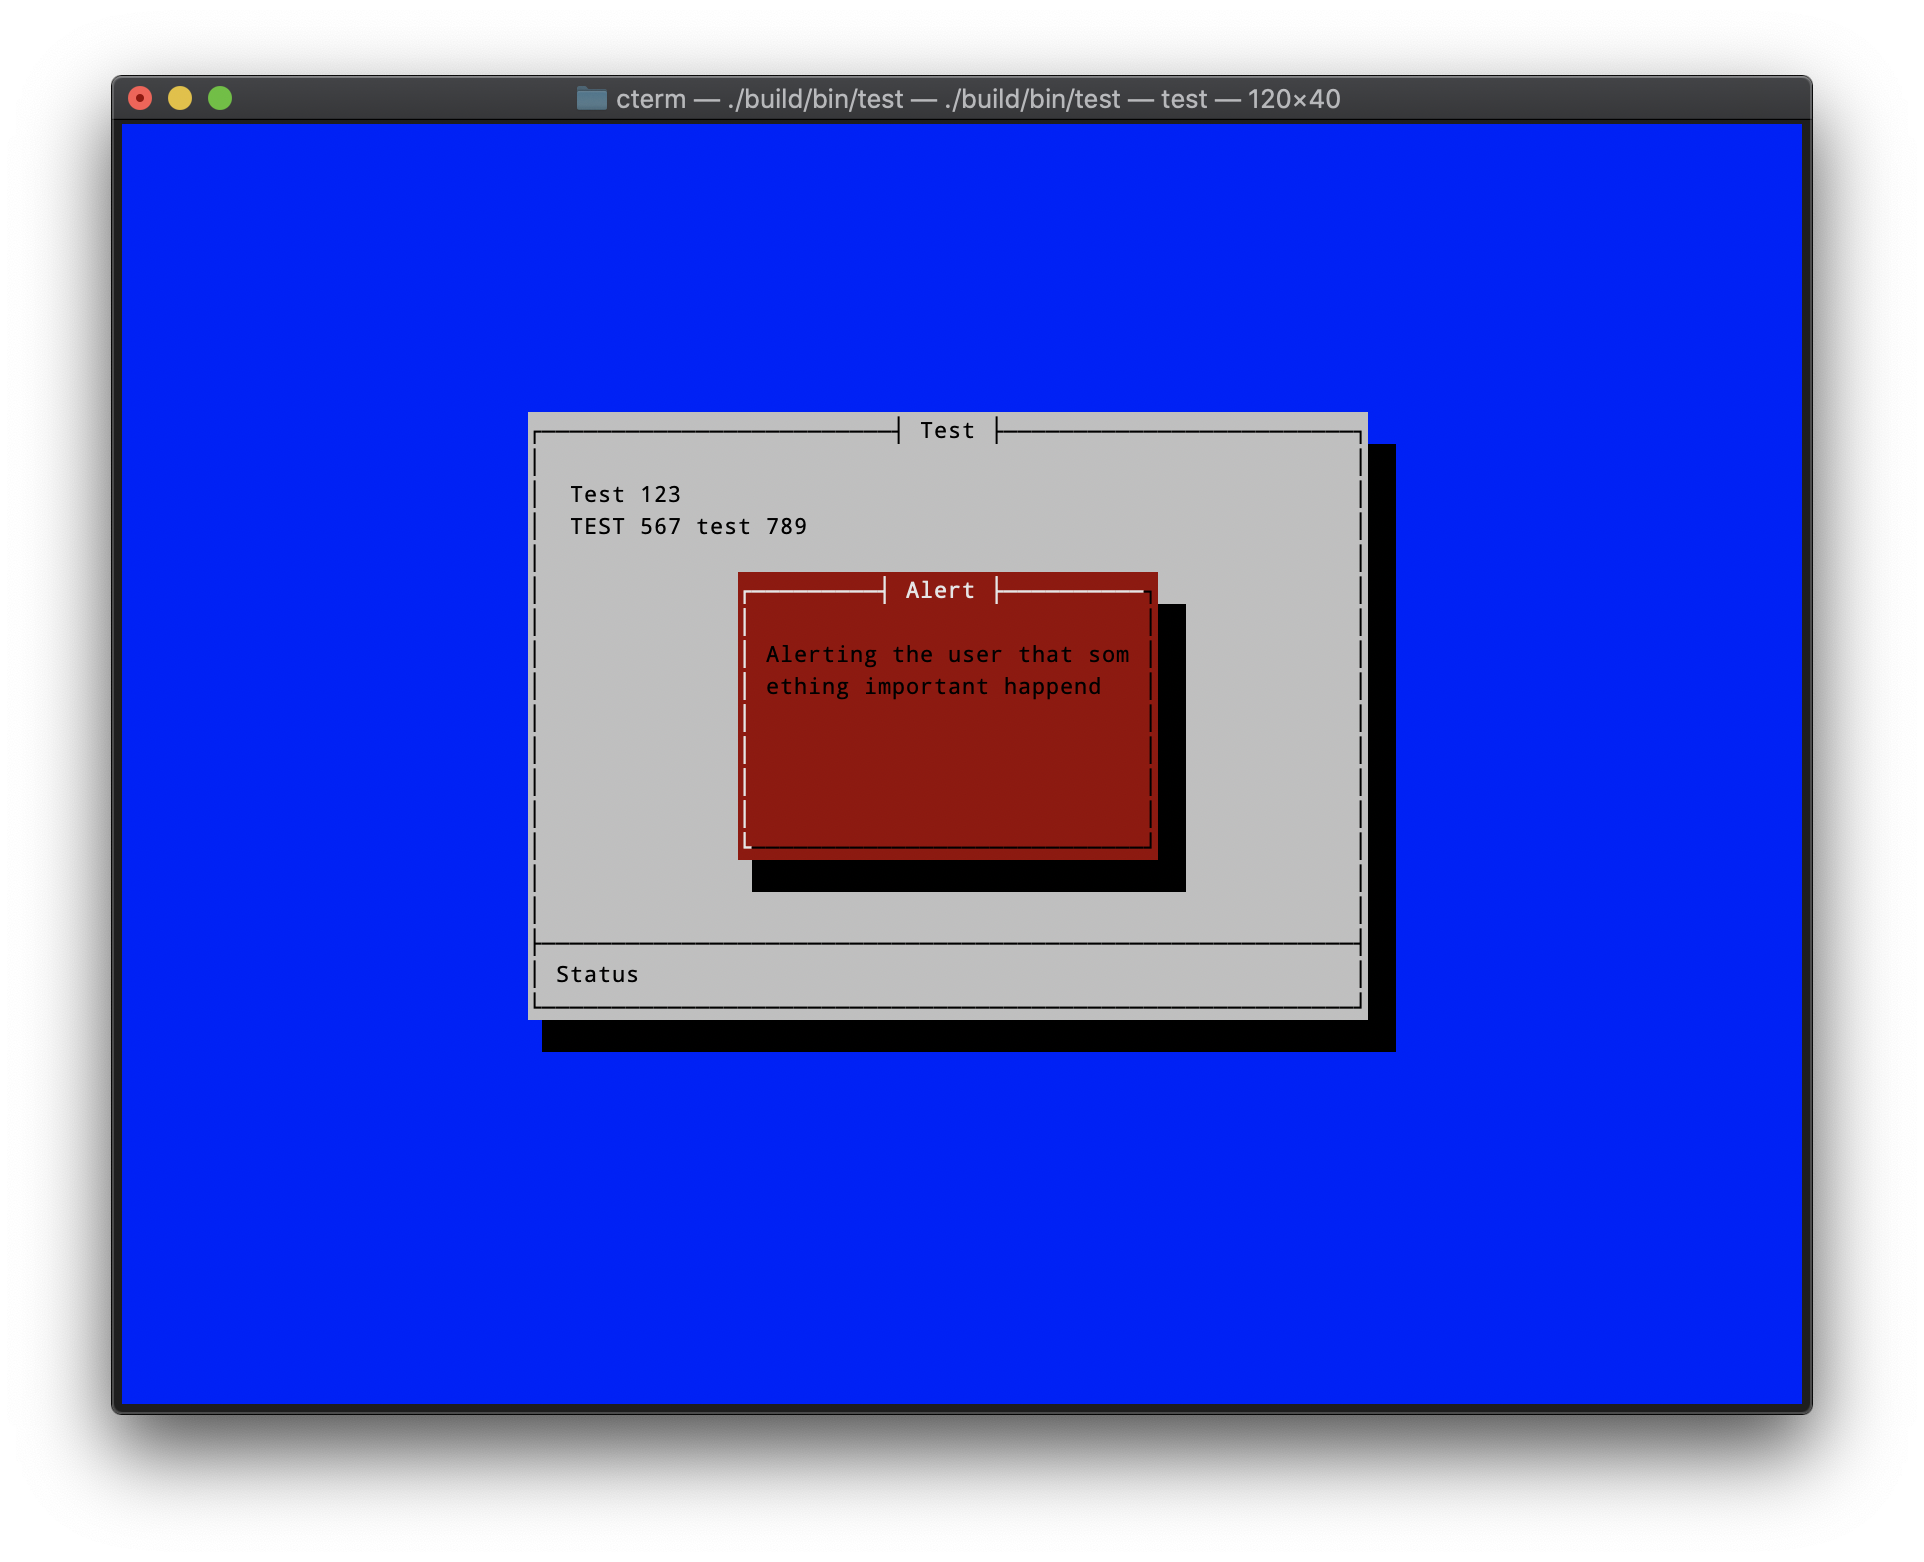
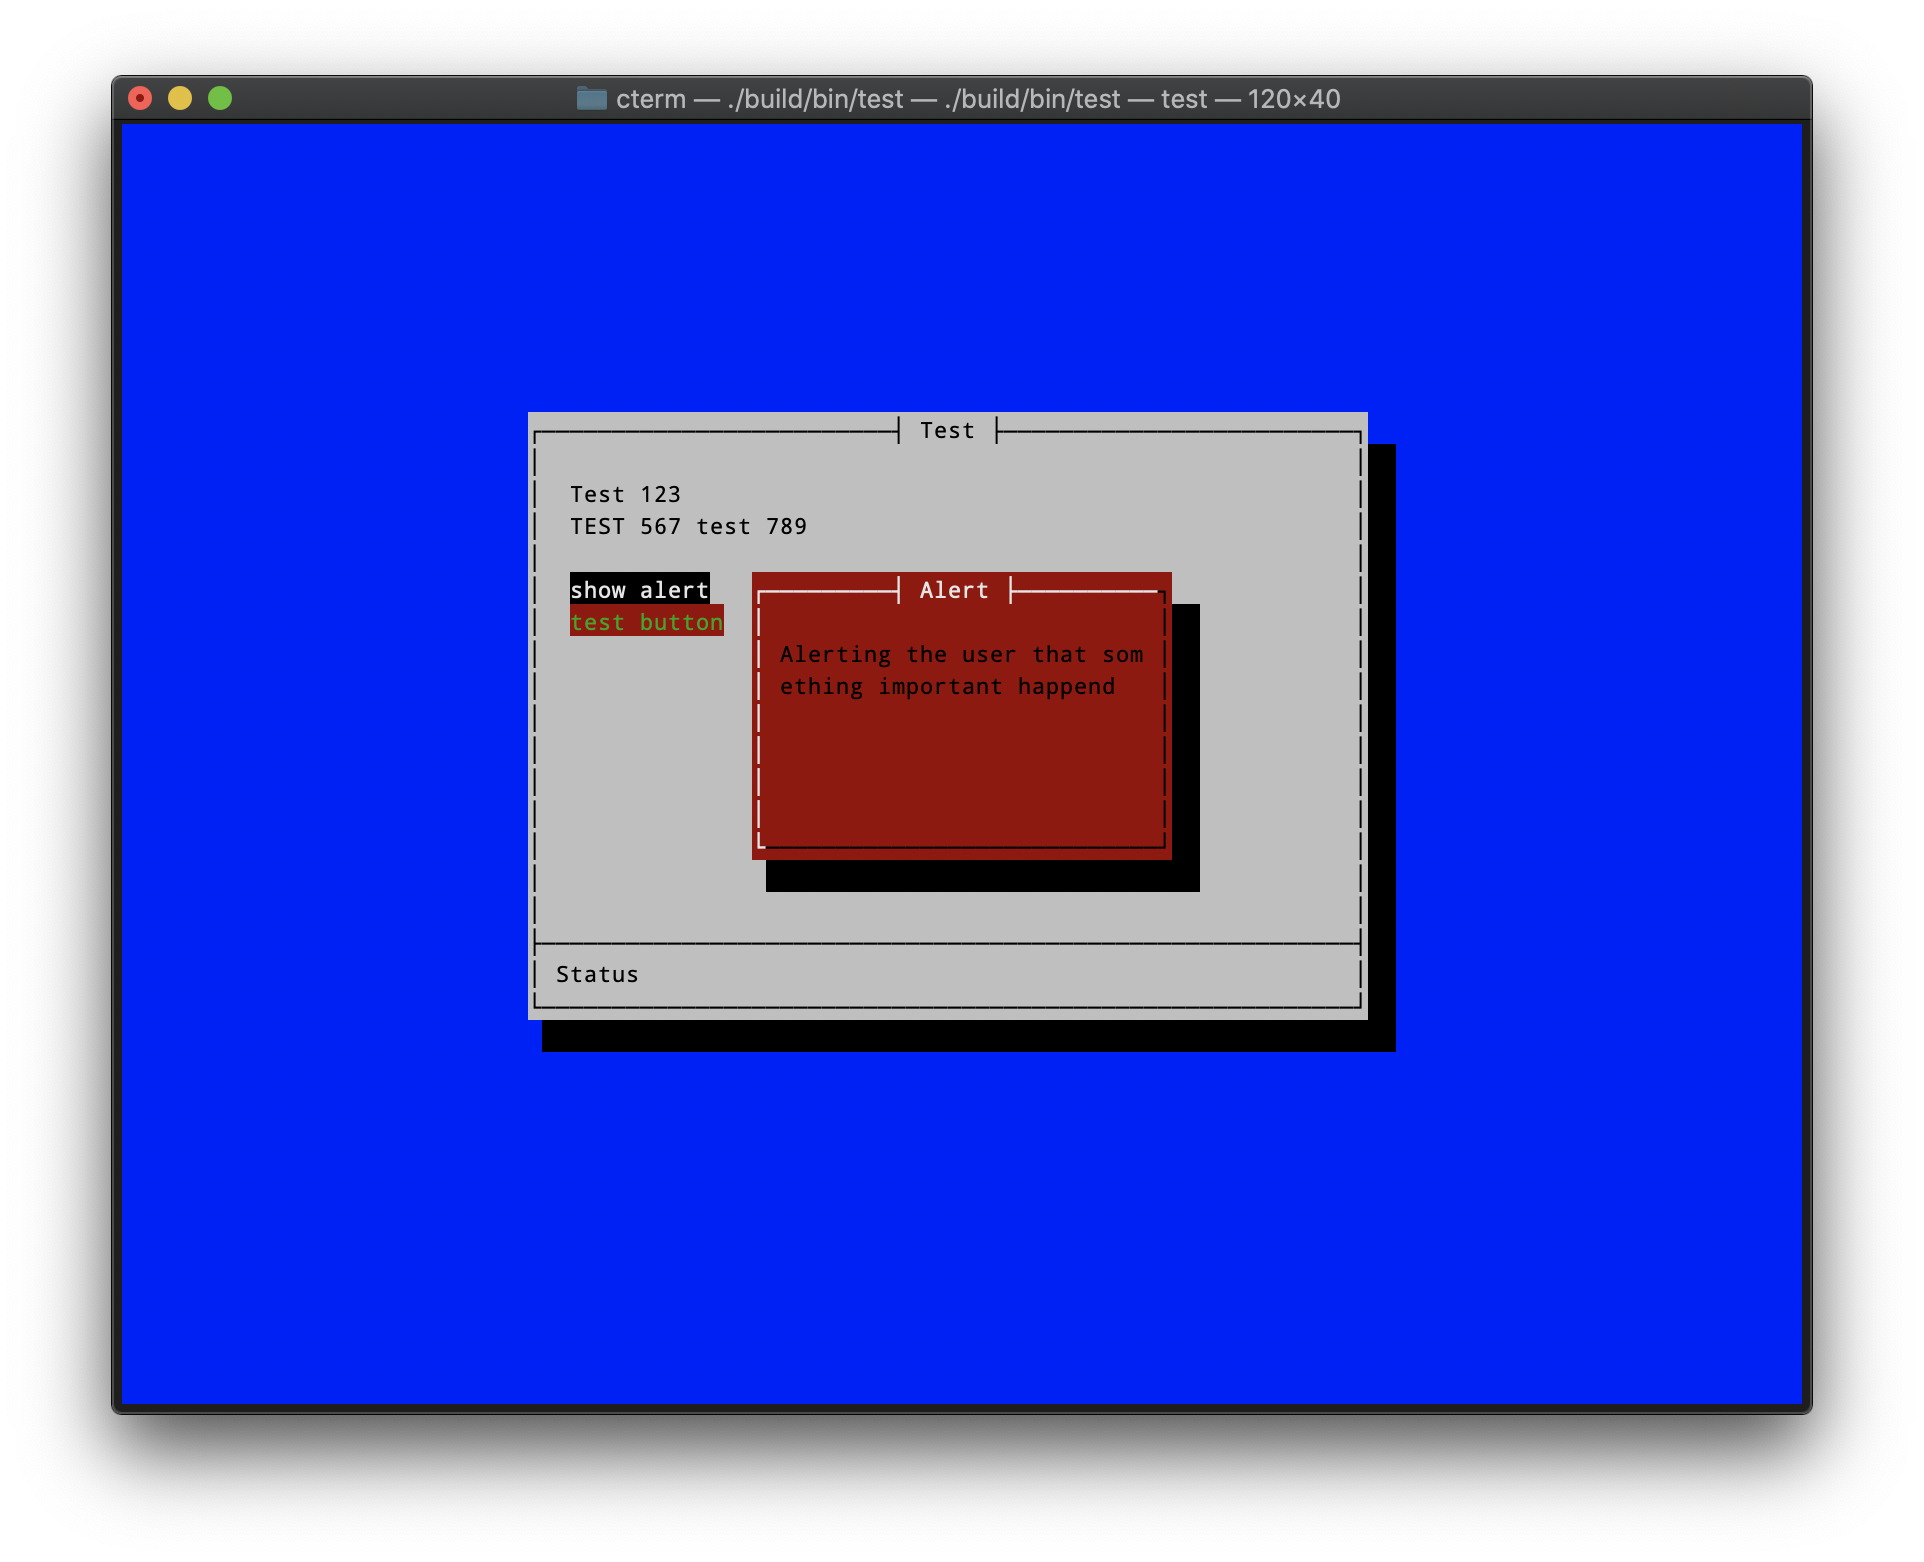
Updated example img, cleaned up logs

Changed region(s): [[0.2807, 0.3688, 0.6237, 0.5839]]

diff --git a/test.cc b/test.cc
@@ -10,7 +10,6 @@
 
 
 int main() {
-  system("echo start >> log");
   cterm::io::saveTerminalSettings();
   cterm::io::showCursor(false);
 
@@ -51,7 +50,7 @@ int main() {
           }
         }),
         cterm::widget::Button::create({
-          .label = "test",
+          .label = "test button",
           .bgColor = cterm::RED,
           .fgColor = cterm::GREEN,
           .selectBgColor = cterm::GREEN,
